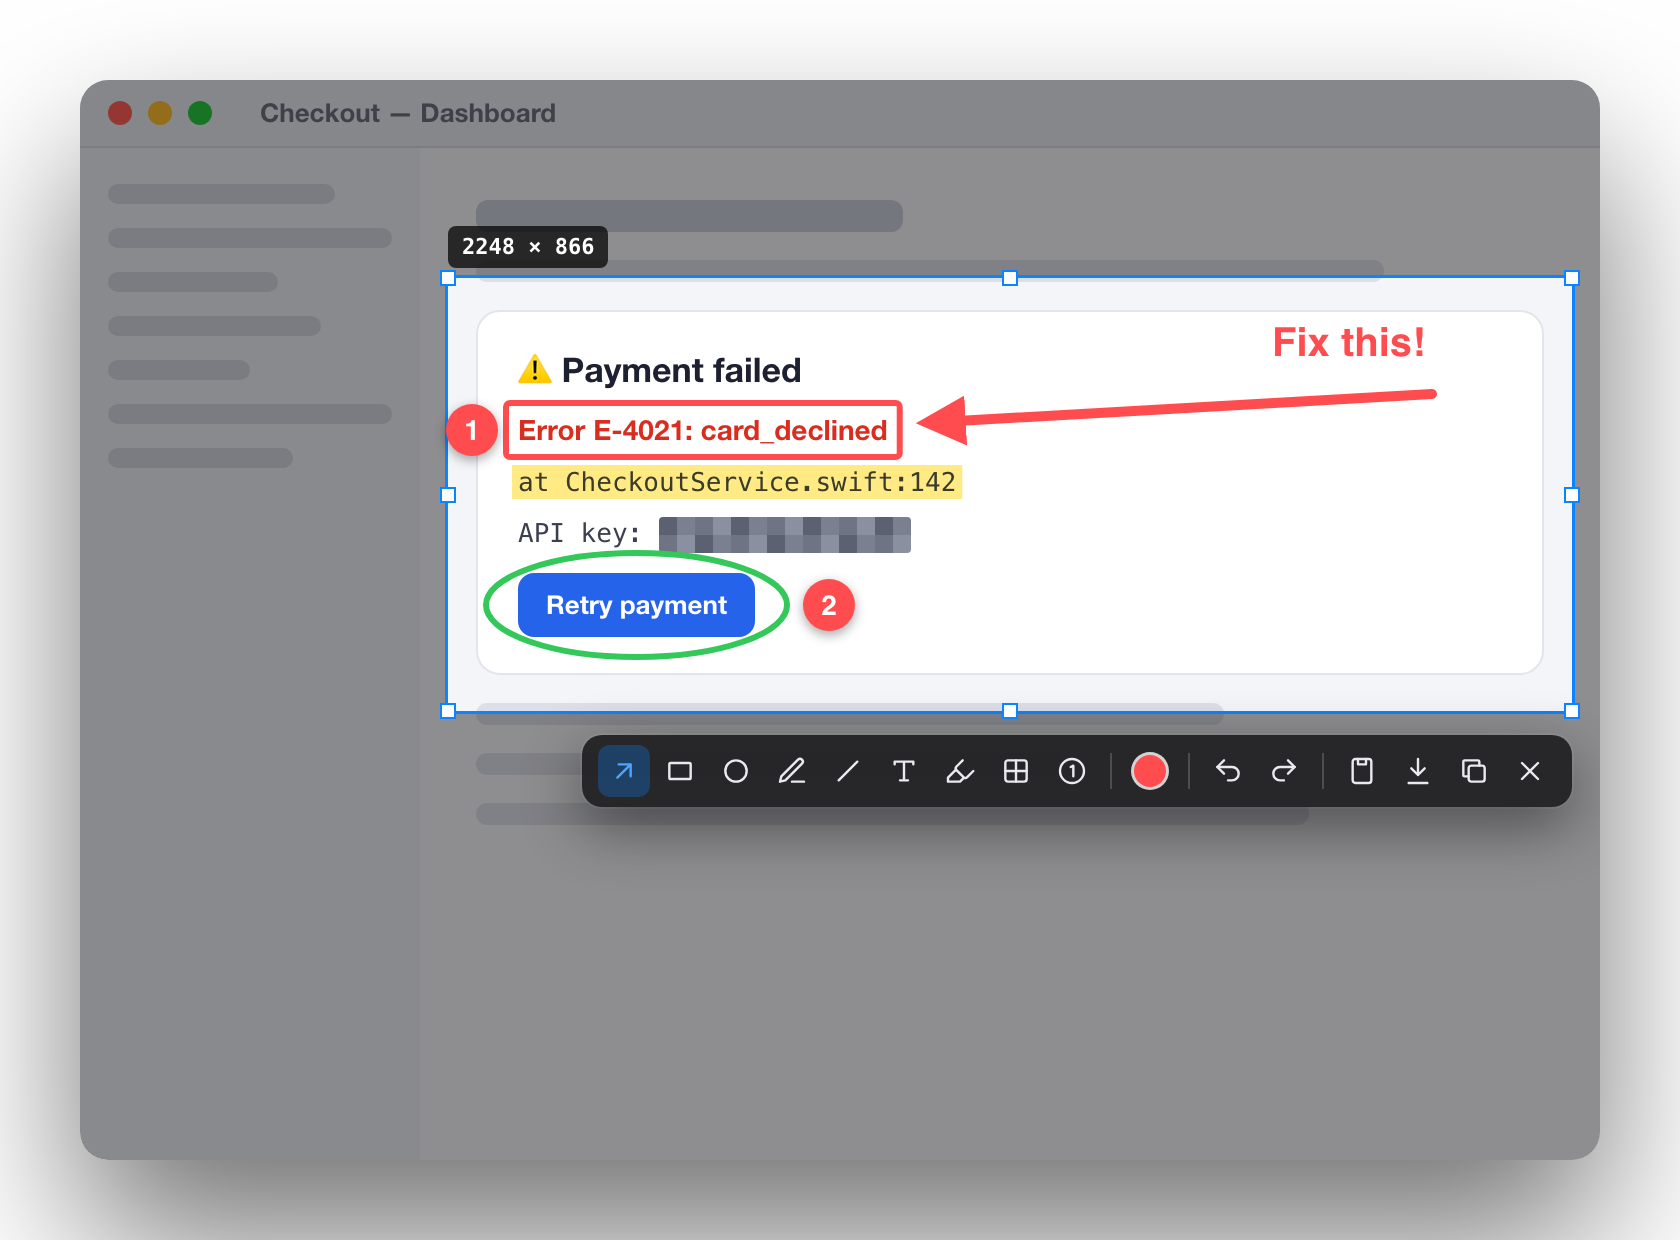
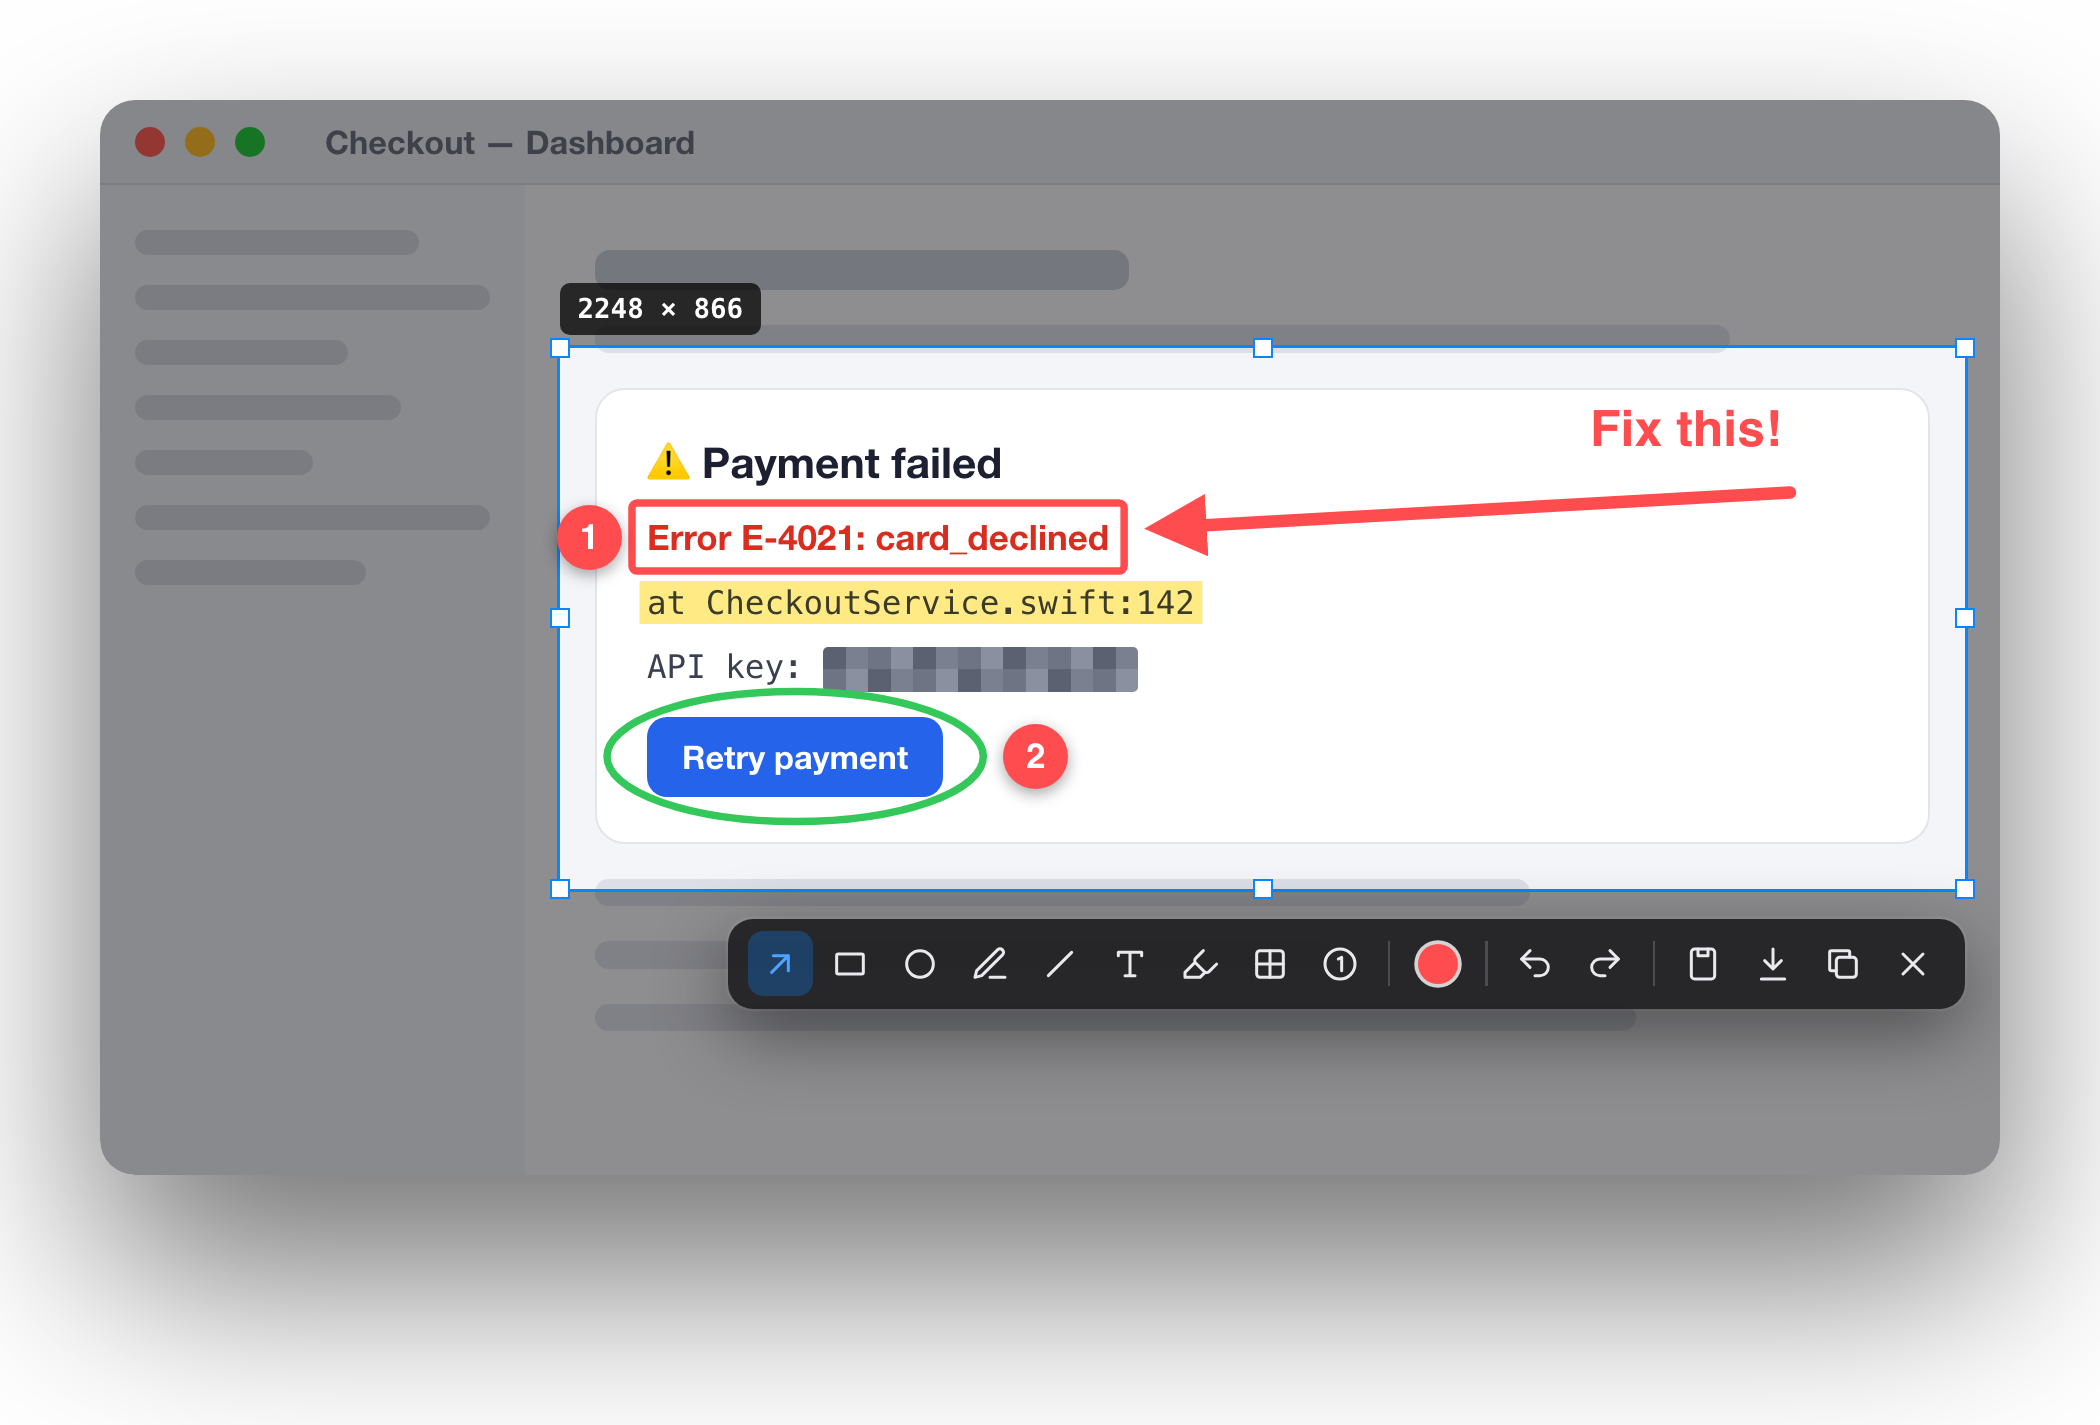
Give TıkKare hero a full-width, larger screenshot

diff --git a/docs/assets/site.css b/docs/assets/site.css
@@ -118,12 +118,15 @@ a.app-card:hover { transform: translateY(-2px); border-color: rgba(255,255,255,.
 .principles h3 { font-size: 17px; margin-bottom: 6px; }
 
 /* ---------- App page ---------- */
-.app-hero { padding: 40px 0 24px; display: grid; grid-template-columns: 1fr 1.1fr; gap: 40px; align-items: center; }
-.app-hero .title { display: flex; align-items: center; gap: 16px; margin: 18px 0 14px; }
+.app-hero { padding: 48px 0 24px; text-align: center; }
+.app-hero .intro { max-width: 720px; margin: 0 auto; display: flex; flex-direction: column; align-items: center; }
+.app-hero .title { display: flex; align-items: center; justify-content: center; gap: 16px; margin: 20px 0 12px; }
 .app-hero .app-logo { width: 72px; height: 72px; }
-.app-hero .actions { display: flex; flex-wrap: wrap; gap: 12px; margin-top: 26px; }
+.app-hero .lead { font-size: clamp(22px, 3vw, 30px); font-weight: 650; letter-spacing: -.01em; }
+.app-hero .intro > p.muted { margin-top: 8px; max-width: 560px; }
+.app-hero .actions { display: flex; flex-wrap: wrap; justify-content: center; gap: 12px; margin-top: 28px; }
 .app-hero .meta { margin-top: 12px; font-size: 14px; }
-.app-hero .shot { filter: drop-shadow(0 30px 60px rgba(0,0,0,.45)); }
+.app-hero .shot { width: 100%; max-width: 1000px; height: auto; margin: 48px auto 0; }
 
 .features { display: grid; grid-template-columns: repeat(auto-fill, minmax(240px, 1fr)); gap: 16px; }
 .feature .icon { font-size: 26px; margin-bottom: 8px; }
@@ -158,7 +161,6 @@ pre {
 
 /* ---------- Responsive ---------- */
 @media (max-width: 860px) {
-  .app-hero { grid-template-columns: 1fr; }
   .two-col { grid-template-columns: 1fr; }
 }
 @media (max-width: 520px) {

diff --git a/docs/tikkare/index.html b/docs/tikkare/index.html
@@ -36,7 +36,7 @@
 <main>
   <div class="wrap">
     <section class="app-hero">
-      <div>
+      <div class="intro">
         <span class="badge"><span class="dot"></span><span data-i18n="hero.badge">Free &amp; open source · Native on Apple silicon</span></span>
         <div class="title">
           <div class="app-logo"><svg viewBox="0 0 24 24" fill="none" stroke="#fff" stroke-width="2" stroke-linecap="round" stroke-linejoin="round"><circle cx="6" cy="6" r="3"/><circle cx="6" cy="18" r="3"/><path d="M20 4 8.12 15.88M14.47 14.48 20 20M8.12 8.12 12 12"/></svg></div>
@@ -53,7 +53,7 @@
         </div>
         <p class="meta muted" data-i18n="hero.meta">v1.0.0 · macOS 14 or later · Apple silicon · English &amp; Turkish</p>
       </div>
-      <img class="shot" src="../assets/tikkare/mockup.png" width="840" height="620" alt="TıkKare annotating a screenshot with an arrow, box, highlighter, blur and numbered steps">
+      <img class="shot" src="../assets/tikkare/mockup.png" width="840" height="570" alt="TıkKare annotating a screenshot with an arrow, box, highlighter, blur and numbered steps">
     </section>
 
     <section id="features">

diff --git a/TikKare/docs/social/social.html b/TikKare/docs/social/social.html
@@ -127,9 +127,9 @@
   /* Mockup only, transparent background (used on the website). */
   body.mockonly { background: transparent; }
   body.mockonly .copy { display: none; }
-  body.mockonly .card { padding: 40px; }
+  body.mockonly .card { padding: 40px 40px 100px; }
   body.mockonly .stage { flex: 1; }
-  body.mockonly .mock { left: 0; top: 0; transform: none; }
+  body.mockonly .mock { left: 0; top: 0; transform: none; height: 430px; }
 </style>
 </head>
 <body>
